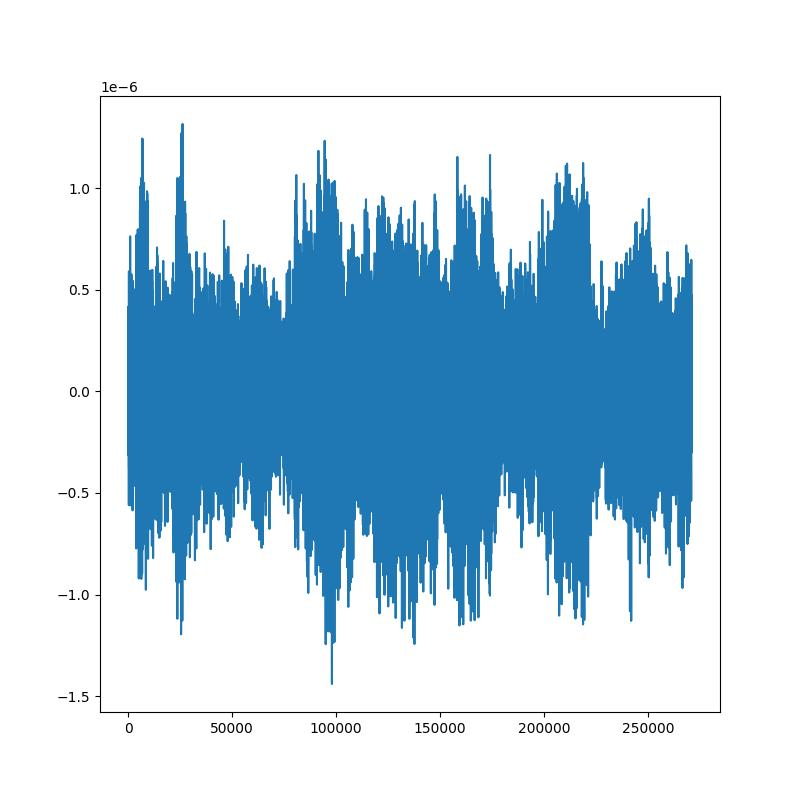
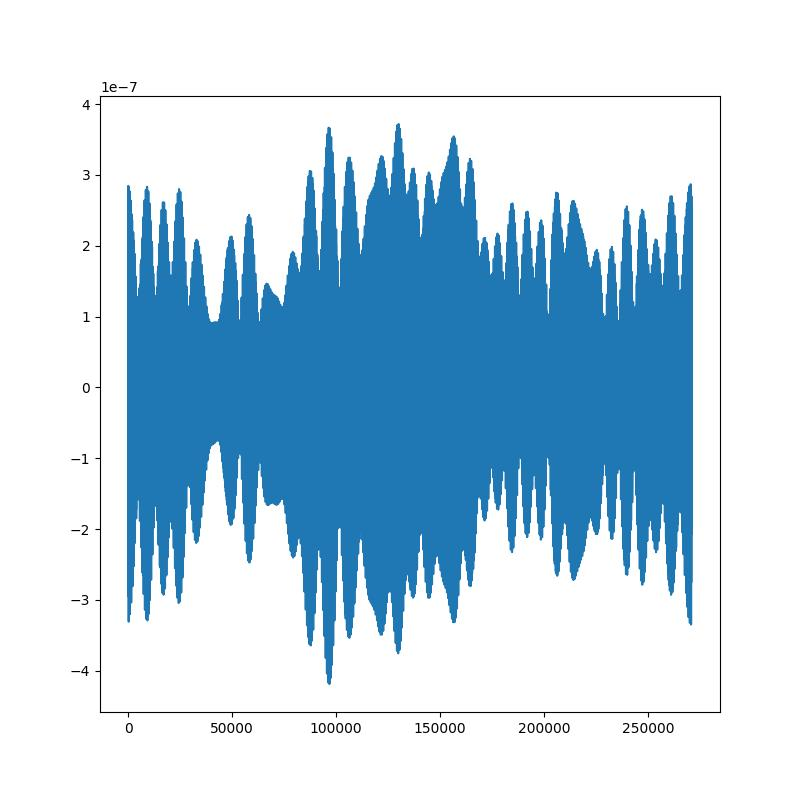
revisando lo del ruido

diff --git a/src/Eng.py b/src/Eng.py
@@ -3,6 +3,7 @@ import numpy as np
 import matplotlib.pyplot as plt
 import scipy.io.wavfile as waves
 import scipy.integrate as integrate
+import scipy.signal as signal 
 
 from pydub import AudioSegment
 from pydub.silence import split_on_silence
@@ -72,6 +73,7 @@ def quitarbajas(sound):
     fig.savefig("data/img/señal_original.jpg")  # or you can pass a Figure object to pdf.savefig
     plt.close()
     
+    # calcaulo de la energia
     tramas=windowing(snd, muestreo)
     eng_sum =np.sum(tramas**2, axis=1)
 
@@ -137,7 +139,7 @@ def ruido(sound):
     ## Filter out noise
     sort_psd = np.sort(psd_real)[::-1]
     # print(len(sort_psd))
-    threshold = sort_psd[300]
+    threshold = sort_psd[12]
     psd_idxs = psd > threshold #array of 0 and 1
     psd_clean = psd * psd_idxs #zero out all the unnecessary powers
     fhat_clean = psd_idxs * fhat #used to retrieve the signal
@@ -151,8 +153,36 @@ def ruido(sound):
     
     waves.write("example_sinRuido.wav", muestreo, signal_filtered)
     
-        
+def test(sound):        
+    muestreo, snd = waves.read(sound)        
+    f1 = 25 
+    f2 = 50 
+    N = 10 
     
+    # t = np.linspace(0, 1, 1000) 
+    muestra = len(snd)    
+    dt = muestra/muestreo
+    t = np.arange(0,muestra*dt,dt)    
+    sig = snd +  np.sin(2*np.pi*f2*t)
+    
+    fig,(ax1, ax2) = plt.subplots(2, 1, sharex=True) 
+    ax1.plot(t, sig) 
+    ax1.set_title('25 Hz and 50 Hz sinusoids') 
+    ax1.axis([0, 1, -2, 2]) 
+    
+    sos = signal.butter(50, 35, 'lp', fs=muestreo, output='sos') 
+    
+    filtered = signal.sosfiltfilt(sos, sig) 
+    
+    
+    ax2.plot(t, filtered) 
+    ax2.set_title('After 35 Hz Low-pass filter') 
+    ax2.axis([0, 1, -2, 2]) 
+    ax2.set_xlabel('Time [seconds]') 
+    plt.tight_layout() 
+    plt.show() 
+    
+
 
 #quitarbajas(sound)
 ruido("example.wav")
